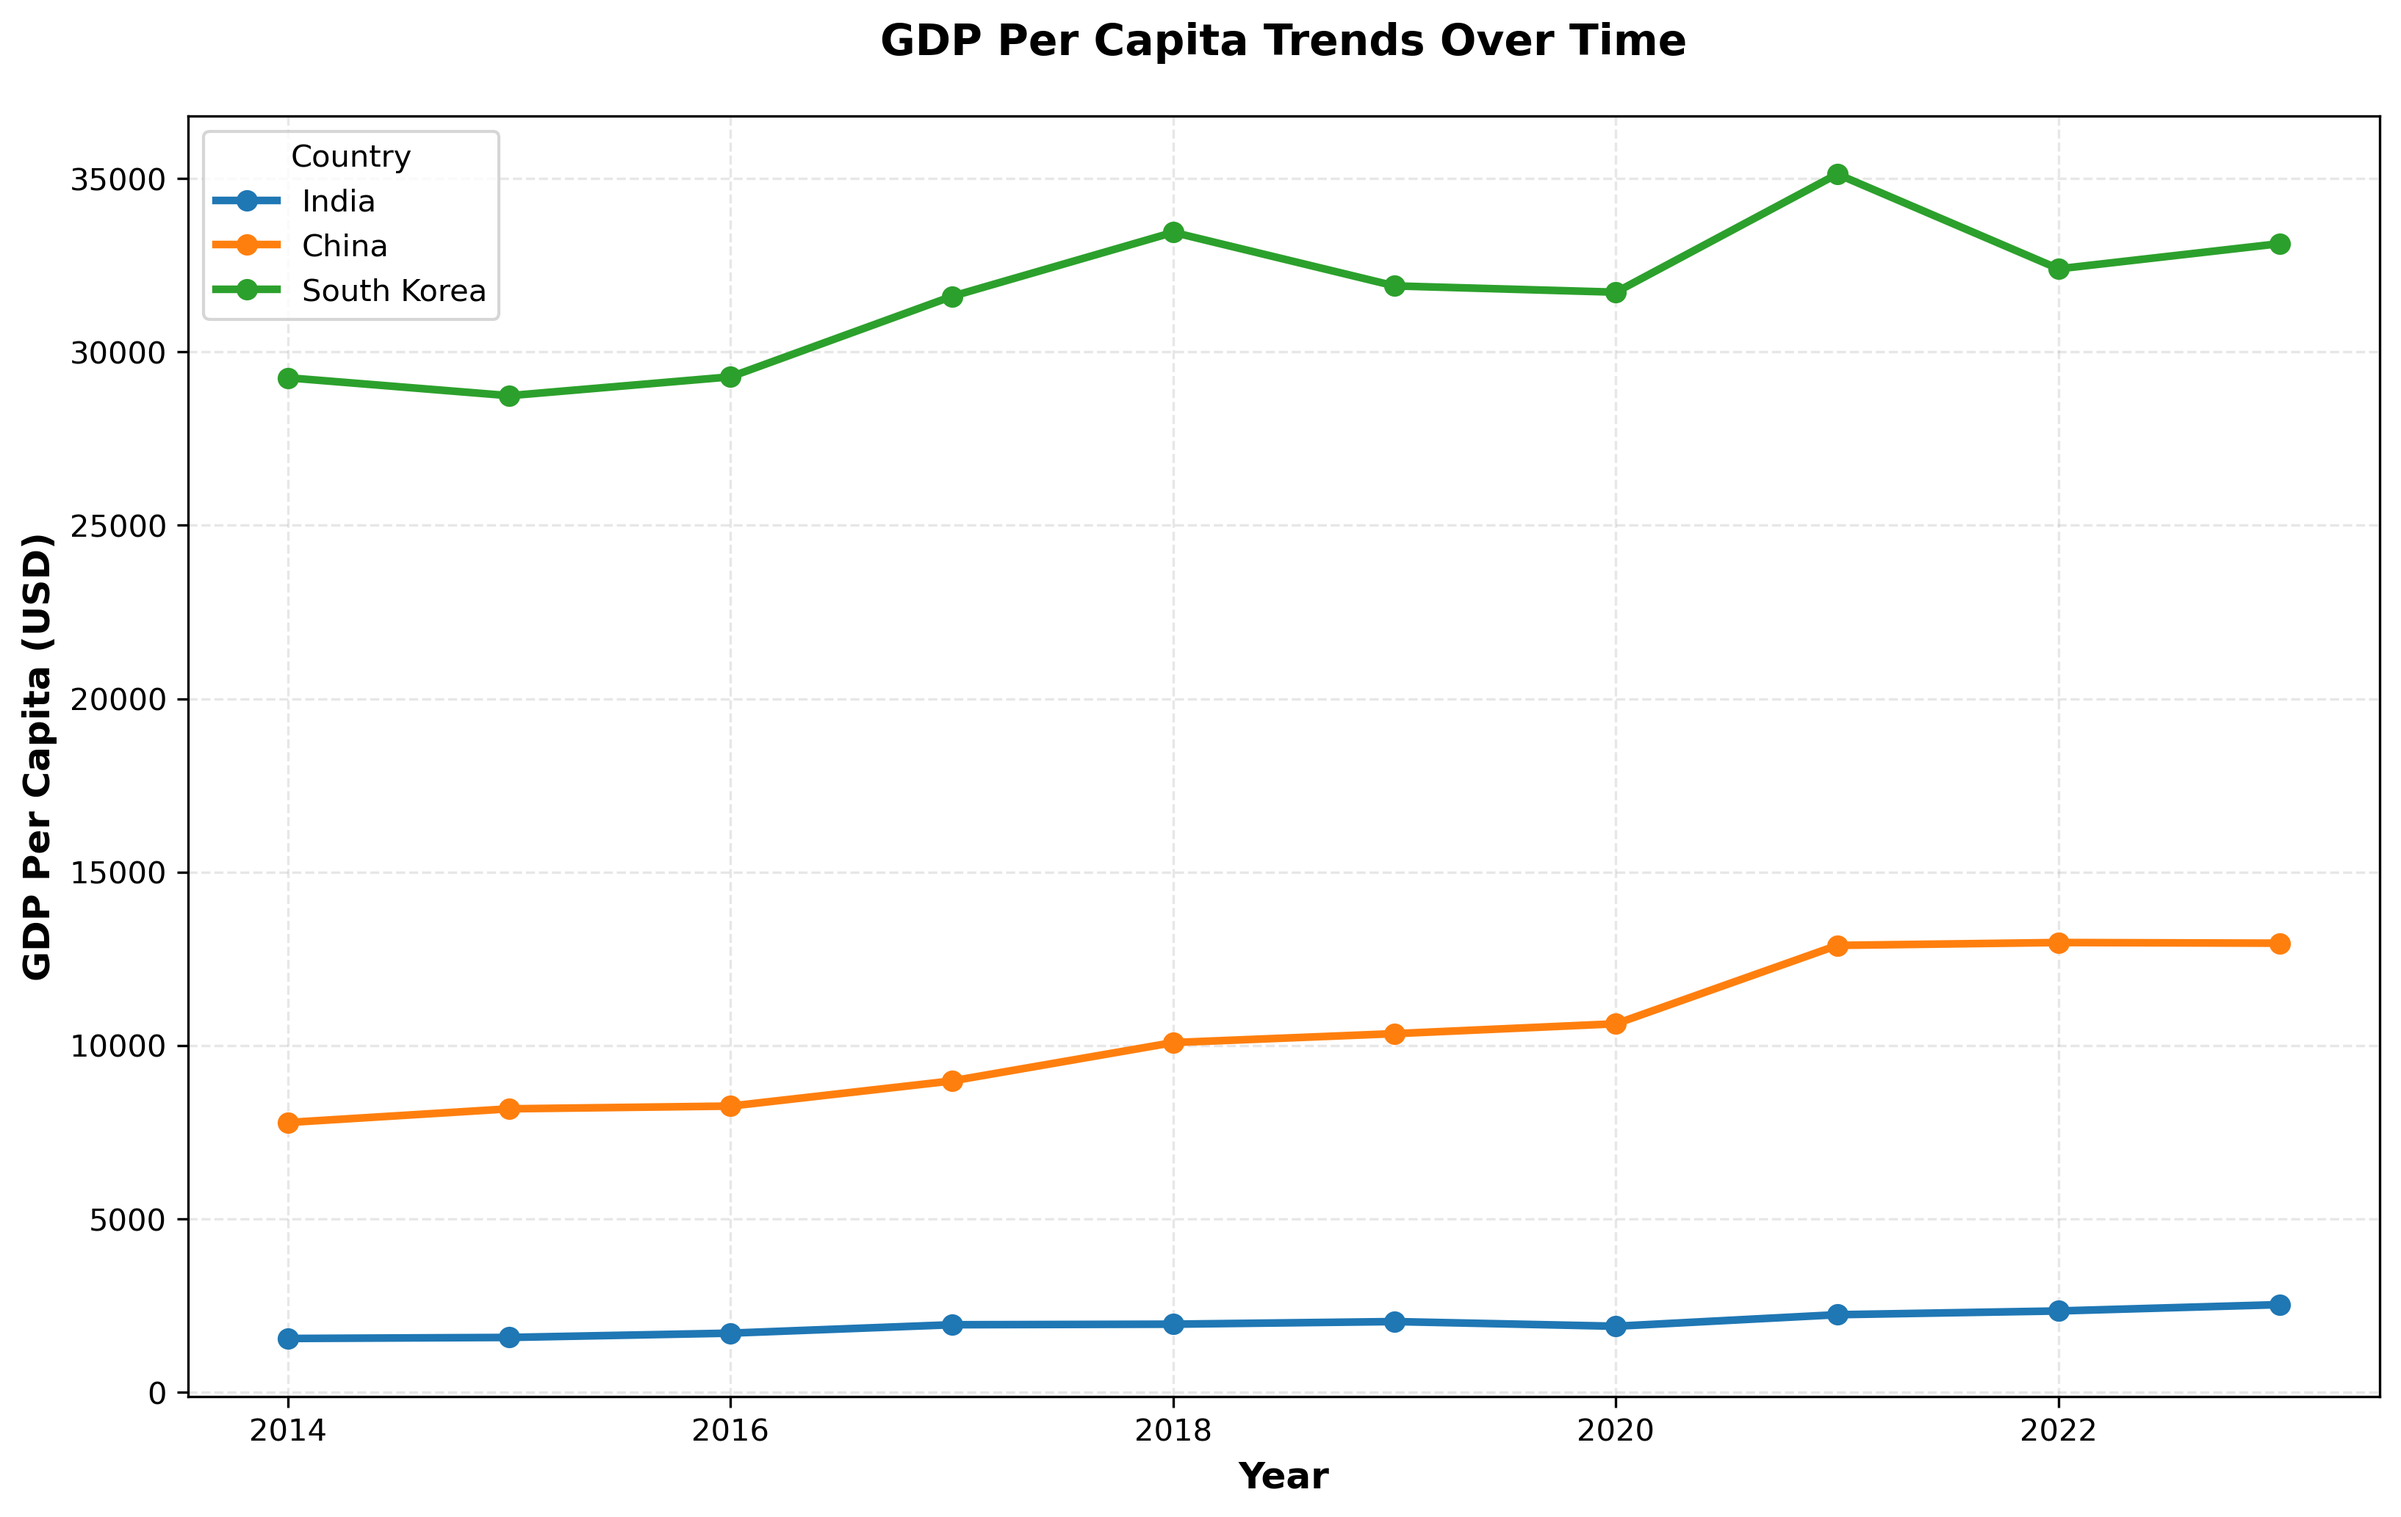
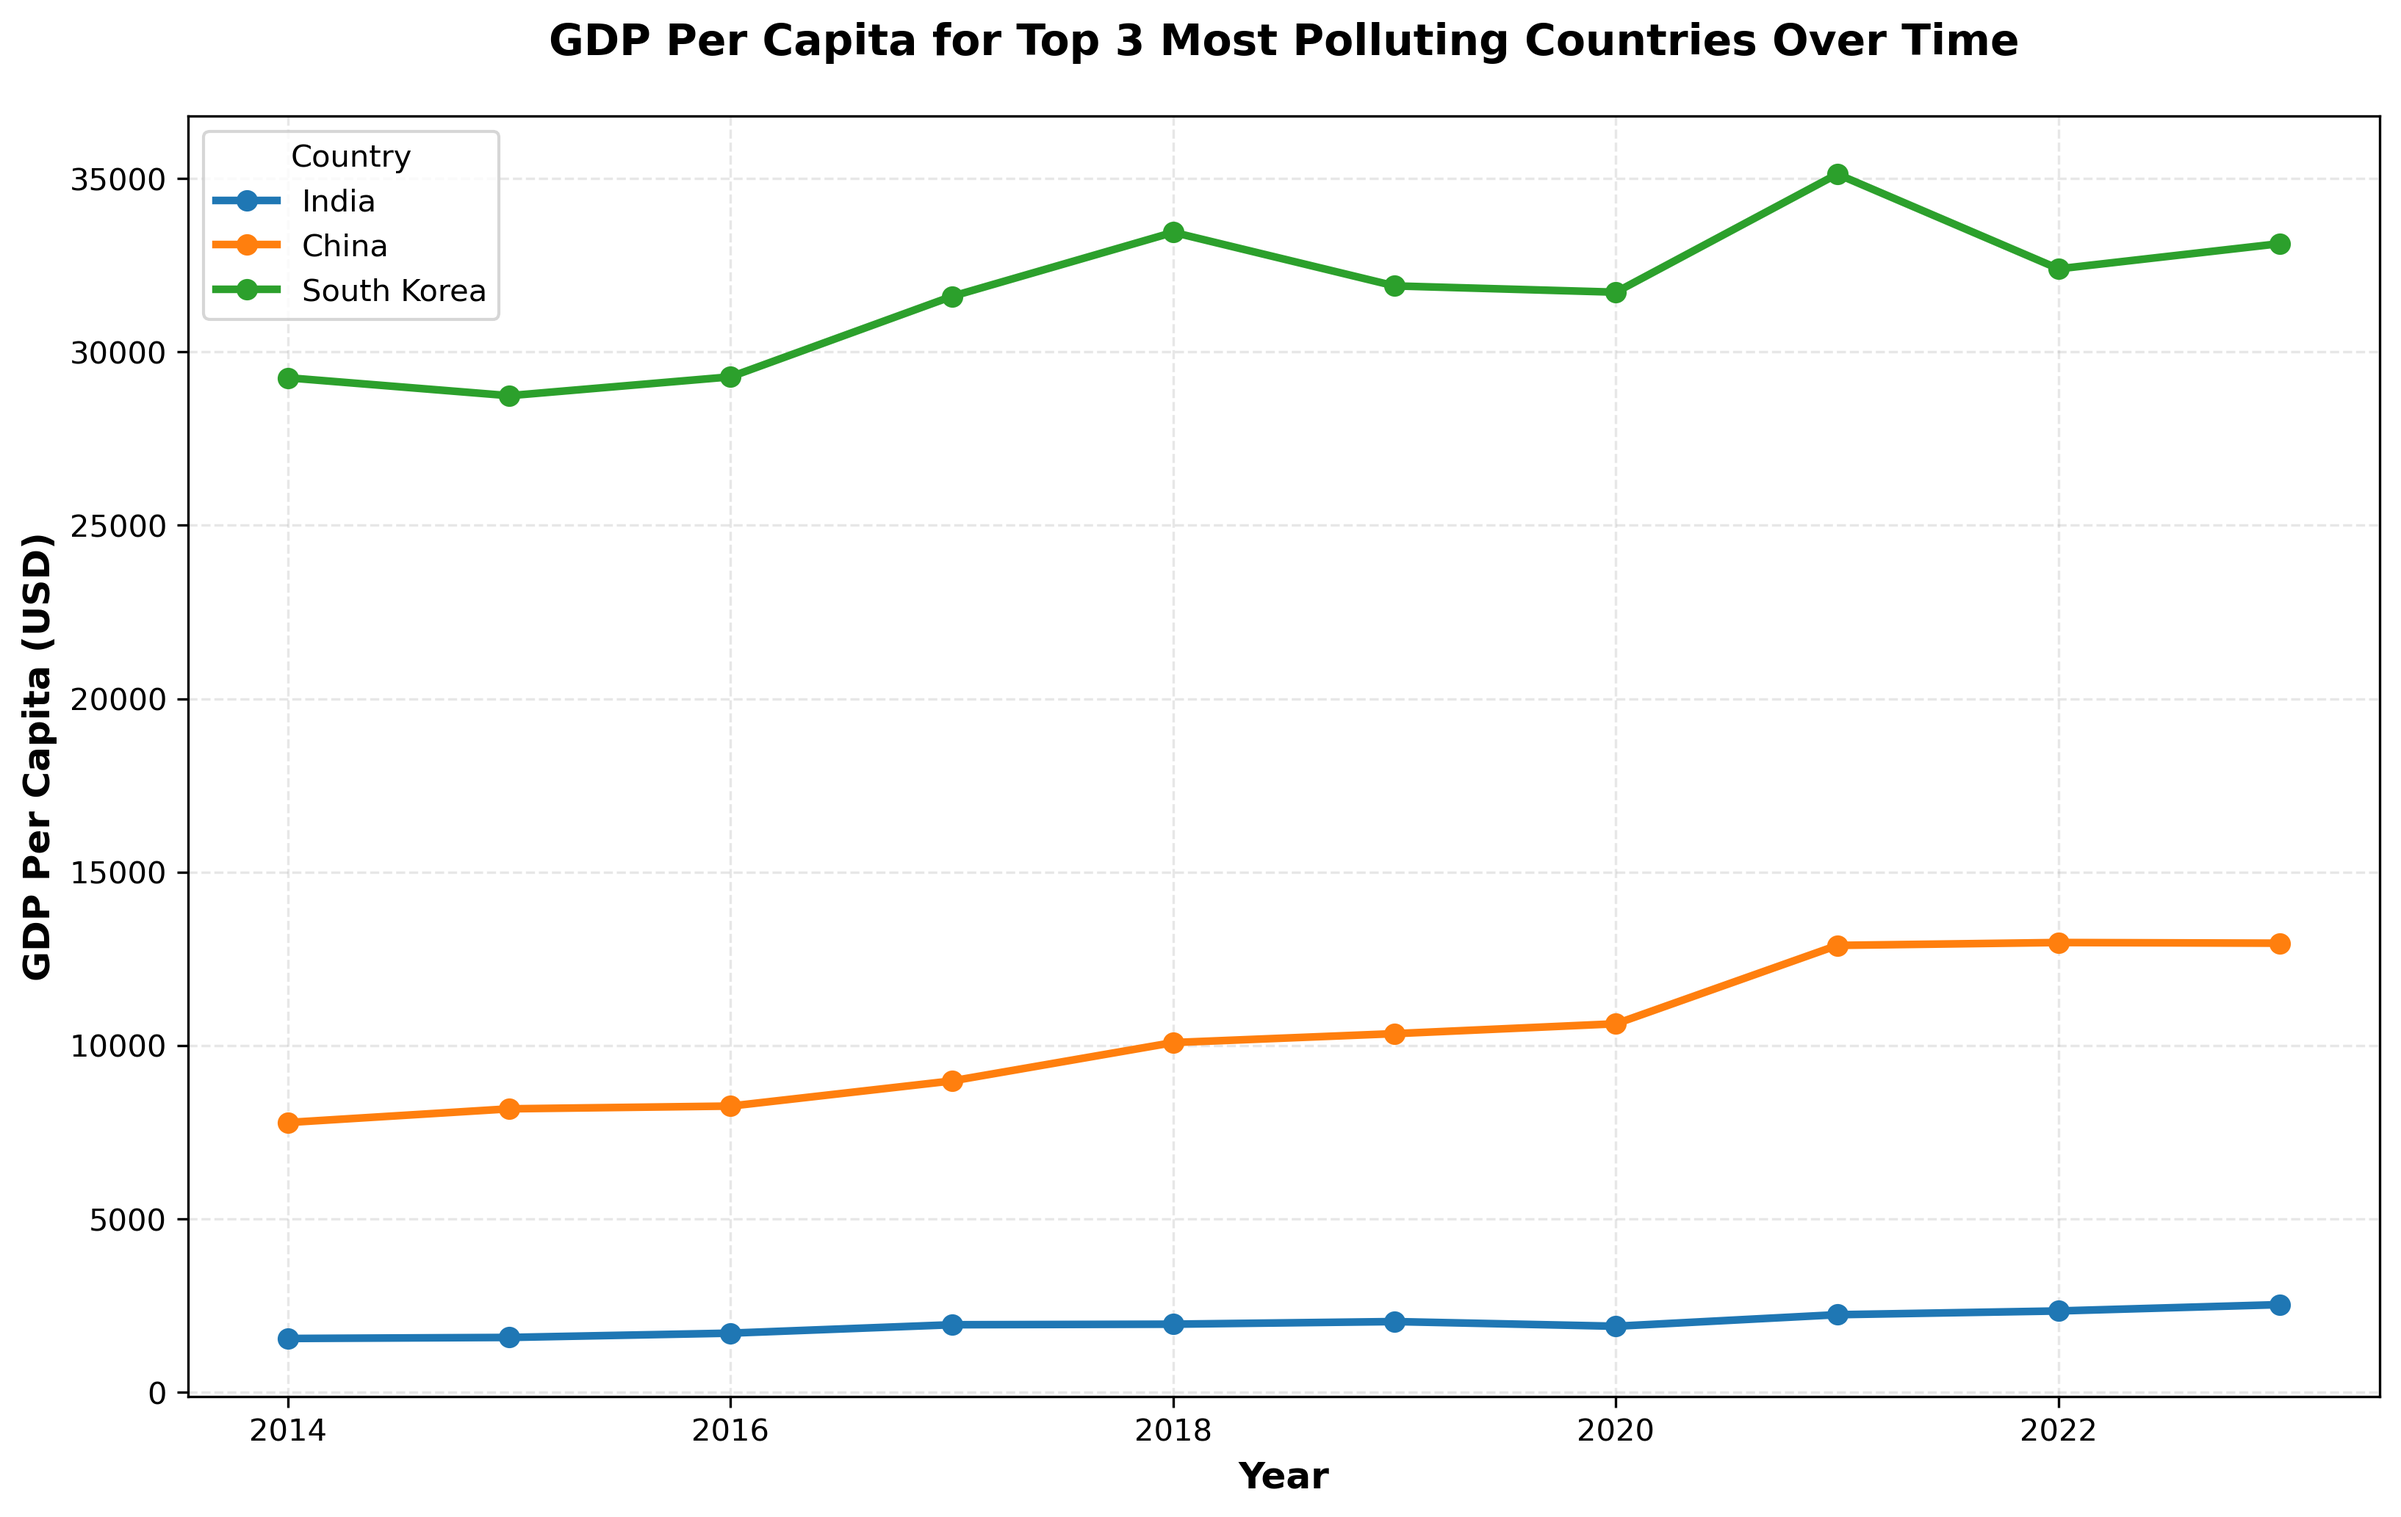
done

Changed region(s): [[0.2185, 0.0, 0.8427, 0.062]]

diff --git a/visualization.py b/visualization.py
@@ -194,7 +194,7 @@ def visualization_4_gdp_trend_top_polluters(conn, output_path='viz4_gdp_trend.pn
 
     ax.set_xlabel('Year', fontsize=12, fontweight='bold')
     ax.set_ylabel('GDP Per Capita (USD)', fontsize=12, fontweight='bold')
-    ax.set_title('GDP Per Capita Trends Over Time', fontsize=14, fontweight='bold', pad=20)
+    ax.set_title('GDP Per Capita for Top 3 Most Polluting Countries Over Time', fontsize=14, fontweight='bold', pad=20)
     ax.legend(title='Country')
     ax.grid(True, alpha=0.3, linestyle='--')
     
